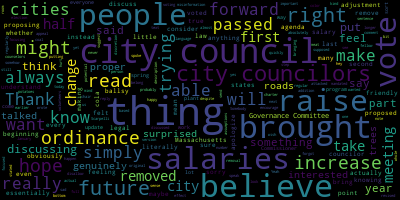
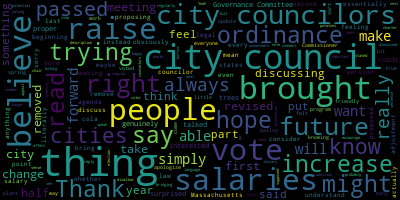
update to speaker ids

diff --git a/2024-11-12_NDgiDfoPie4/2024-11-12_NDgiDfoPie4.es.html b/2024-11-12_NDgiDfoPie4/2024-11-12_NDgiDfoPie4.es.html
@@ -118,12 +118,10 @@
  Eso es en lo que la gente se centró en lugar de centrarse en lo único que realmente hizo, que es asegurarse de que ningún concejo municipal pueda votar por sus propios aumentos, y me sorprende que el concejal Scarpelli quiera un futuro concejo municipal. votar por sus propios aumentos para poder aumentar sus propios salarios.
  Esto es lo único que hace.
  Entonces, yo...
- Estoy sorprendido y espero que la gente lea lo que realmente se propone en lugar de hacer suposiciones basadas en quién propone algo.</p>
-
-    <p><a href="https://youtu.be/NDgiDfoPie4&t=1372.616s">[SPEAKER_05]</a>: ¿Qué dice?
- Eso es lo que dice.</p>
-
-    <p><a href="https://youtu.be/NDgiDfoPie4&t=1380.44s">[Callahan]</a>: Quiero decir, léelo.
+ Estoy sorprendido y espero que la gente lea lo que realmente se propone en lugar de hacer suposiciones basadas en quién propone algo.
+ ¿Qué dice?
+ Eso es lo que dice.
+ Quiero decir, léelo.
  Dice que sin ayuntamiento, sin cambio de salario</p>
 
     <p><a href="https://youtu.be/NDgiDfoPie4&t=1389.821s">[Bears]</a>: Primero que nada, eso se eliminó y es como... Creo que el problema es que no necesitábamos tener esta discusión ahora.
@@ -358,18 +356,18 @@
     <p><a href="https://youtu.be/NDgiDfoPie4&t=2629.178s">[Bears]</a>: Dejémoslo, sigamos adelante.
  Y el inicial que lo mencionaba, el consejero lo ha editado para quitarlo.</p>
 
-    <p><a href="https://youtu.be/NDgiDfoPie4&t=2634.563s">[SPEAKER_05]</a>: Lo he revisado.
+    <p><a href="https://youtu.be/NDgiDfoPie4&t=2634.563s">[Callahan]</a>: Lo he revisado.
  Esta es la versión revisada.</p>
 
     <p><a href="https://youtu.be/NDgiDfoPie4&t=2640.97s">[Jorleo]</a>: Vale, bueno, no lo sabía.</p>
 
-    <p><a href="https://youtu.be/NDgiDfoPie4&t=2641.931s">[SPEAKER_05]</a>: No está ahí, se ha ido.</p>
+    <p><a href="https://youtu.be/NDgiDfoPie4&t=2641.931s">[Callahan]</a>: No está ahí, se ha ido.</p>
 
     <p><a href="https://youtu.be/NDgiDfoPie4&t=2643.853s">[Jorleo]</a>: Bueno.
  Totalmente, totalmente desaparecido.
  Genial, eso es todo.</p>
 
-    <p><a href="https://youtu.be/NDgiDfoPie4&t=2645.314s">[SPEAKER_05]</a>: Estas son todas las ramas, y esto es lo que estoy tratando de hacer.</p>
+    <p><a href="https://youtu.be/NDgiDfoPie4&t=2645.314s">[Callahan]</a>: Estas son todas las ramas, y esto es lo que estoy tratando de hacer.</p>
 
     <p><a href="https://youtu.be/NDgiDfoPie4&t=2651.761s">[Jorleo]</a>: No atacarte, la versión de la resolución que tenía frente a mí decía eso, entonces no sabía que eso fue quitado.</p>
 
@@ -665,9 +663,8 @@
  Cualquier discusión adicional.
  Concejal Callahan.</p>
 
-    <p><a href="https://youtu.be/NDgiDfoPie4&t=4006.613s">[SPEAKER_05]</a>: Gracias.</p>
-
-    <p><a href="https://youtu.be/NDgiDfoPie4&t=4012.074s">[Callahan]</a>: Mencioné esto y me disculpo por incluir algo sobre COLA al principio.
+    <p><a href="https://youtu.be/NDgiDfoPie4&t=4006.613s">[Callahan]</a>: Gracias.
+ Mencioné esto y me disculpo por incluir algo sobre COLA al principio.
  Ojalá hubiera sido esta segunda versión, de la que casi nadie hablaba.
  Mencioné esto sabiendo que no sería amigable.
  a muchos de mis compañeros concejales de la ciudad.

diff --git a/2024-11-12_NDgiDfoPie4/2024-11-12_NDgiDfoPie4.html b/2024-11-12_NDgiDfoPie4/2024-11-12_NDgiDfoPie4.html
@@ -130,13 +130,9 @@
  This is the only thing that it does.
  So, I'm...
  I am surprised and I hope that people will read what is actually being proposed instead of making assumptions based on who is putting something forward.
-</p>
-
-    <p><a href="https://youtu.be/NDgiDfoPie4&t=1372.616s">[SPEAKER_05]</a>:  What does it say?
+ What does it say?
  That's what it says.
-</p>
-
-    <p><a href="https://youtu.be/NDgiDfoPie4&t=1380.44s">[Callahan]</a>:  I mean, read it.
+ I mean, read it.
  It says no city council, no change in the salary
 </p>
 
@@ -408,14 +404,14 @@
  And the initial one that mentioned it, the counselor has edited it to remove it.
 </p>
 
-    <p><a href="https://youtu.be/NDgiDfoPie4&t=2634.563s">[SPEAKER_05]</a>:  I have revised it.
+    <p><a href="https://youtu.be/NDgiDfoPie4&t=2634.563s">[Callahan]</a>:  I have revised it.
  This is the revised version.
 </p>
 
     <p><a href="https://youtu.be/NDgiDfoPie4&t=2640.97s">[Jorleo]</a>:  Okay, well I wasn't aware.
 </p>
 
-    <p><a href="https://youtu.be/NDgiDfoPie4&t=2641.931s">[SPEAKER_05]</a>:  It's not there, it is gone.
+    <p><a href="https://youtu.be/NDgiDfoPie4&t=2641.931s">[Callahan]</a>:  It's not there, it is gone.
 </p>
 
     <p><a href="https://youtu.be/NDgiDfoPie4&t=2643.853s">[Jorleo]</a>:  Okay.
@@ -423,7 +419,7 @@
  Great, so that makes it.
 </p>
 
-    <p><a href="https://youtu.be/NDgiDfoPie4&t=2645.314s">[SPEAKER_05]</a>:  This is all the branches, and this is what I'm trying to do.
+    <p><a href="https://youtu.be/NDgiDfoPie4&t=2645.314s">[Callahan]</a>:  This is all the branches, and this is what I'm trying to do.
 </p>
 
     <p><a href="https://youtu.be/NDgiDfoPie4&t=2651.761s">[Jorleo]</a>:  not attacking you, the version of the resolution that I had in front of me said that, so I didn't know that that was taken out.
@@ -752,10 +748,8 @@
  Councilor Callahan.
 </p>
 
-    <p><a href="https://youtu.be/NDgiDfoPie4&t=4006.613s">[SPEAKER_05]</a>:  Thank you.
-</p>
-
-    <p><a href="https://youtu.be/NDgiDfoPie4&t=4012.074s">[Callahan]</a>:  I brought this up and I apologize for having anything about COLA in it at the beginning.
+    <p><a href="https://youtu.be/NDgiDfoPie4&t=4006.613s">[Callahan]</a>:  Thank you.
+ I brought this up and I apologize for having anything about COLA in it at the beginning.
  I wish that it had been this second version, which almost no one talked about.
  I brought this up knowing that it would not be friendly
  to many of my fellow city councilors.
@@ -1268,8 +1262,8 @@
       </td>
       <td>
         <center>Callahan</center><br>
-        total time: 8.95 minutes<br>
-        total words: 1355<br>
+        total time: 9.35 minutes<br>
+        total words: 1393<br>
         <a href="Callahan.wordcloud.png"><img src="Callahan.wordcloud.png" alt="word cloud for Callahan" height=150></img></a><br>
       </td>
       <td>
